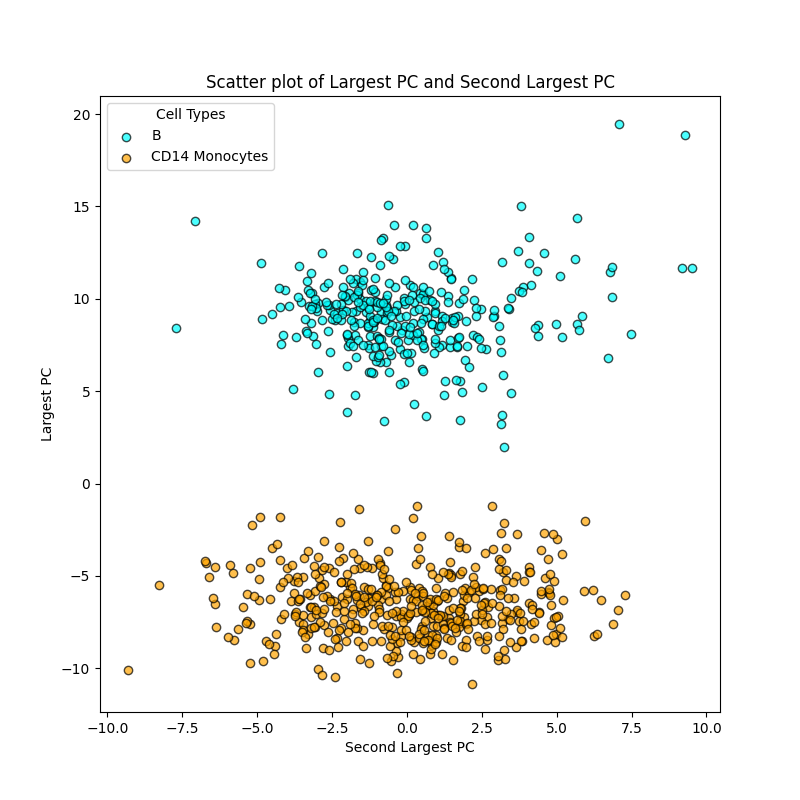
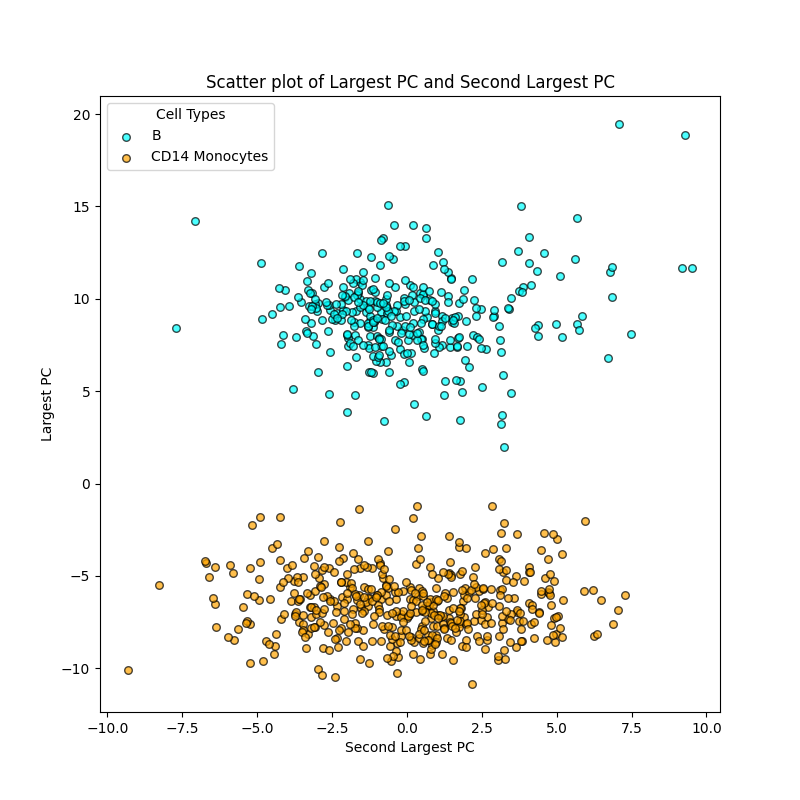
update A3_code.py to adjust marker size in PCA plots; update binary image files for consistency

diff --git a/A3/A3_code.py b/A3/A3_code.py
@@ -4,7 +4,7 @@
 Author       : Chris Xiao yl.xiao@mail.utoronto.ca
 Date         : 2025-02-14 20:26:03
 LastEditors  : Chris Xiao yl.xiao@mail.utoronto.ca
-LastEditTime : 2025-02-25 13:44:37
+LastEditTime : 2025-02-27 14:38:25
 FilePath     : /LMP1210_Winter_2025/A3/A3_code.py
 Description  : python script for problem 1, 4, 5 in A3
 I Love IU
@@ -166,6 +166,7 @@ def P4(X_data: pd.DataFrame, y_data: pd.DataFrame) -> None:
             color=colors[i],
             label=f"{cell_types[i]}",
             edgecolors="k",
+            s=30,
             alpha=0.7,
         )
     plt.xlabel("Second Largest PC")
@@ -184,6 +185,7 @@ def P4(X_data: pd.DataFrame, y_data: pd.DataFrame) -> None:
             color=colors[i],
             label=f"{cell_types[i]}",
             edgecolors="k",
+            s=30,
             alpha=0.7,
         )
     plt.xlabel("Smallest PC")
